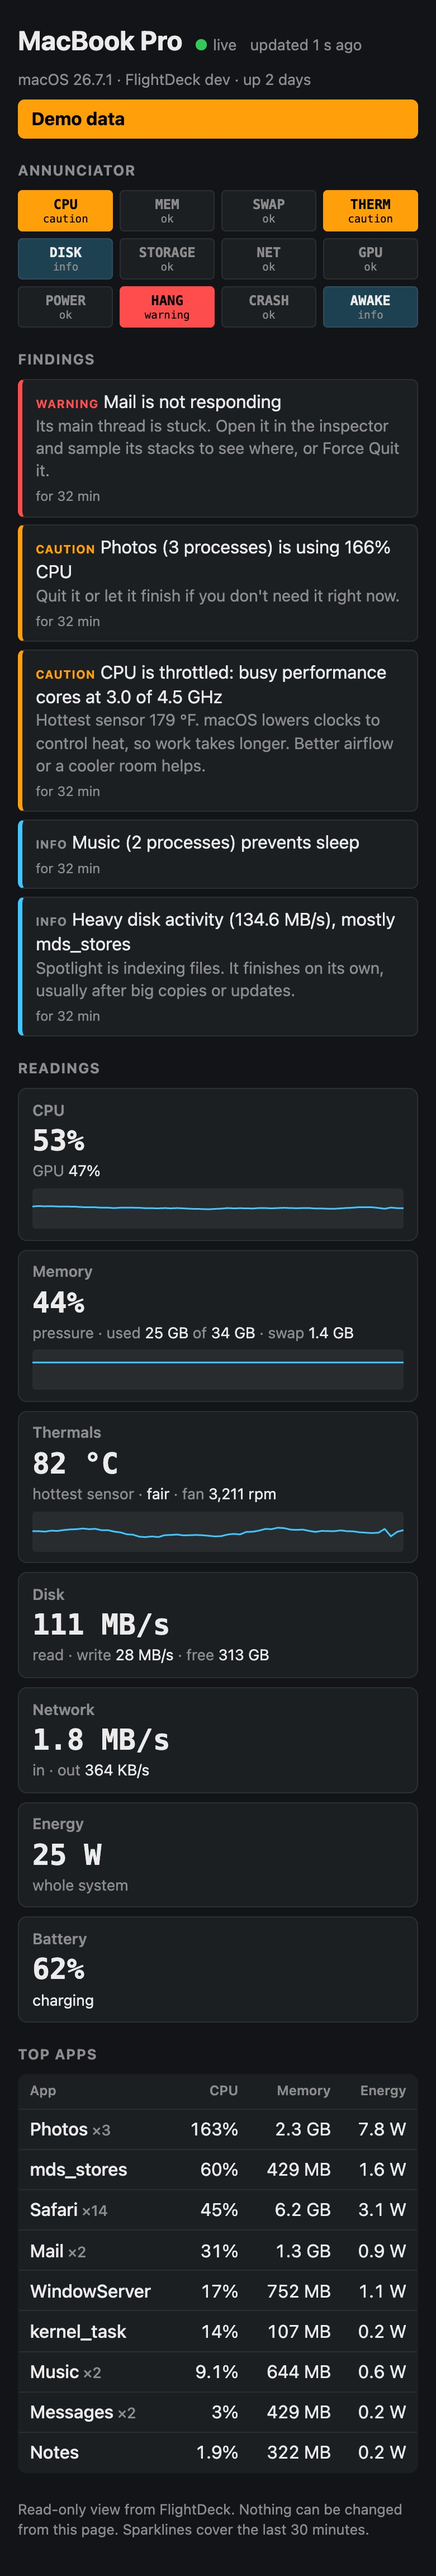
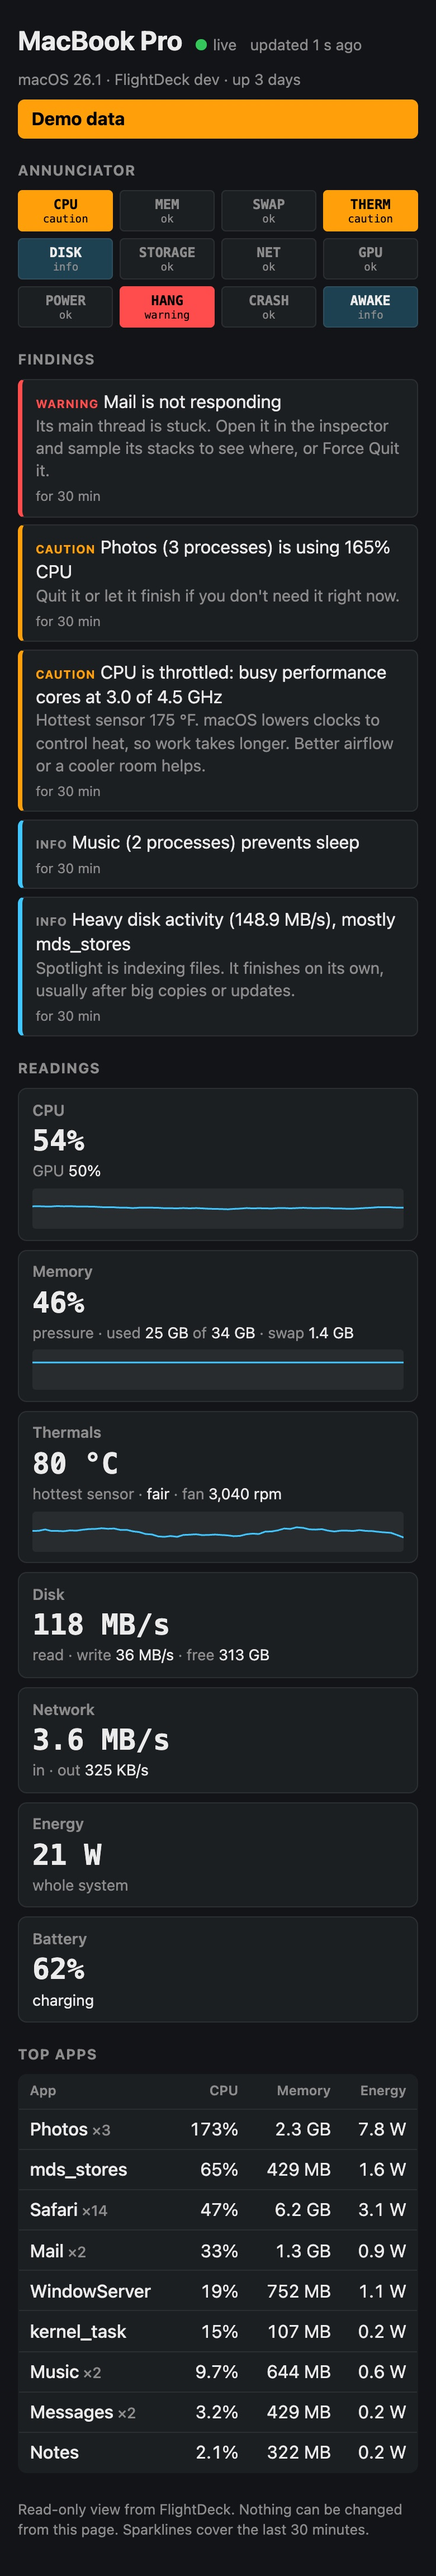
Web dashboard: invented identity in the demo server, screenshot retaken
The demo page showed this Mac's real macOS version and uptime; it now uses fixed
demo values like the rest of the demo data.

diff --git a/Sources/FlightDeck/WebDashboardCLI.swift b/Sources/FlightDeck/WebDashboardCLI.swift
@@ -12,9 +12,9 @@ enum WebDashboardCLI {
     static func document(history: Bool, latest: Bool) -> Data {
         let now = Date(), snap = frames.last
         var i = WebDashboardInputs(snapshot: snap, findings: findings, incidents: Demo.incidents(now),
-                                   displayName: "MacBook Pro", modelName: "MacBook Pro", hardwareModel: Sysctl.string("hw.model") ?? "",
-                                   macOS: FleetService.identity(id: "", hasBattery: false).macOS, appVersion: MCPEndpoint.version,
-                                   uptime: Sysctl.timeval("kern.boottime").map { now.timeIntervalSince($0) },
+                                   // Invented identity too, so nothing on the page describes this Mac.
+                                   displayName: "MacBook Pro", modelName: "MacBook Pro", hardwareModel: "Mac16,7",
+                                   macOS: "26.1", appVersion: MCPEndpoint.version, uptime: 3 * 86400 + 4 * 3600,
                                    paused: false, intervalS: 2, demo: true, redaction: .current)
         if history { i.history = .points(WebDashboardState.history(frames: frames, now: now)) }
         if latest, let snap { i.point = WebPoint(snap) }
